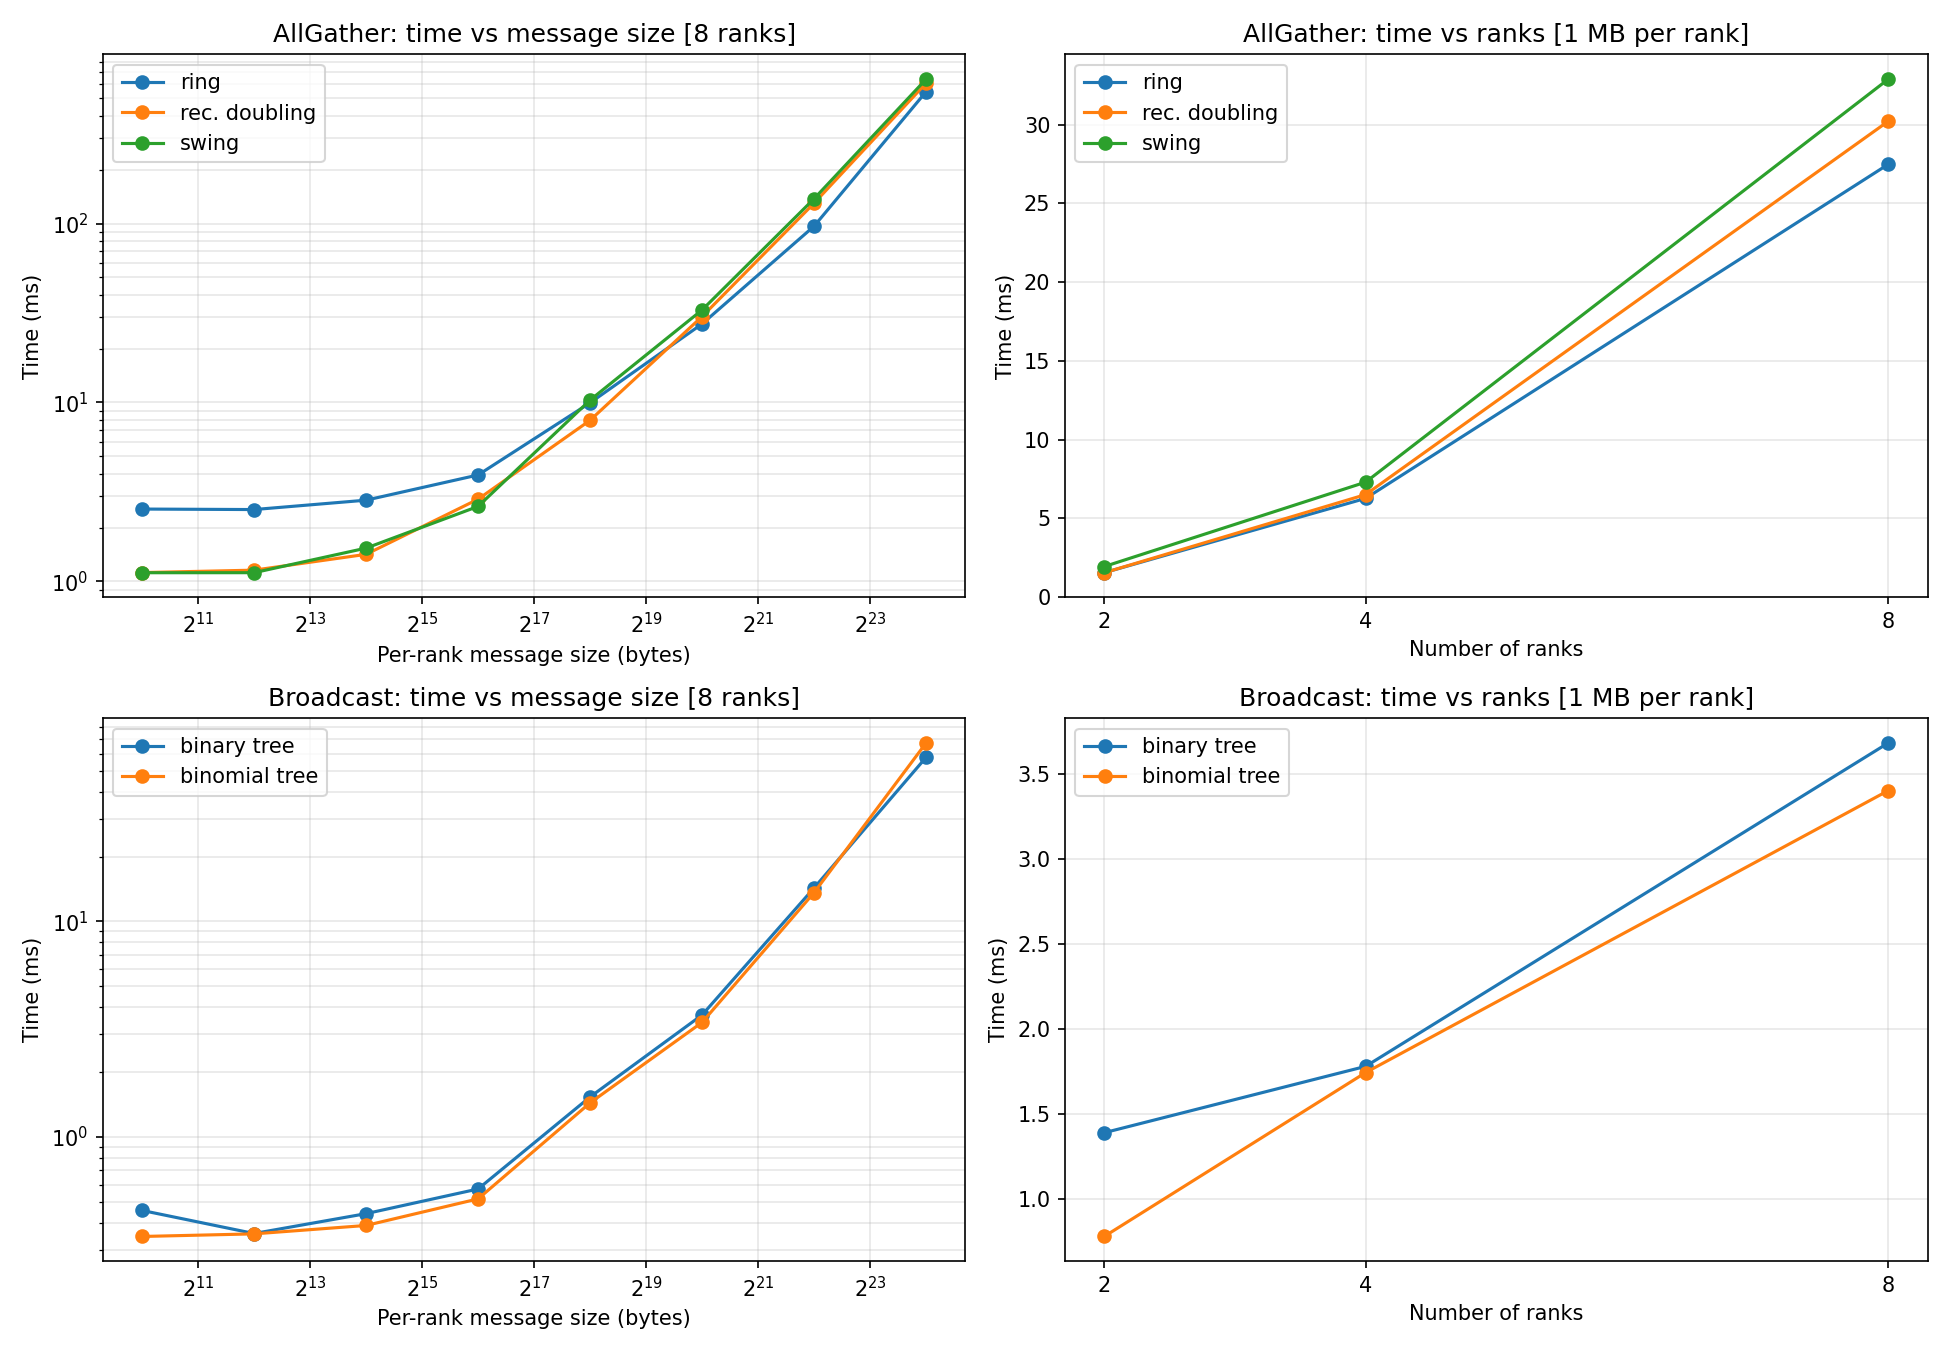
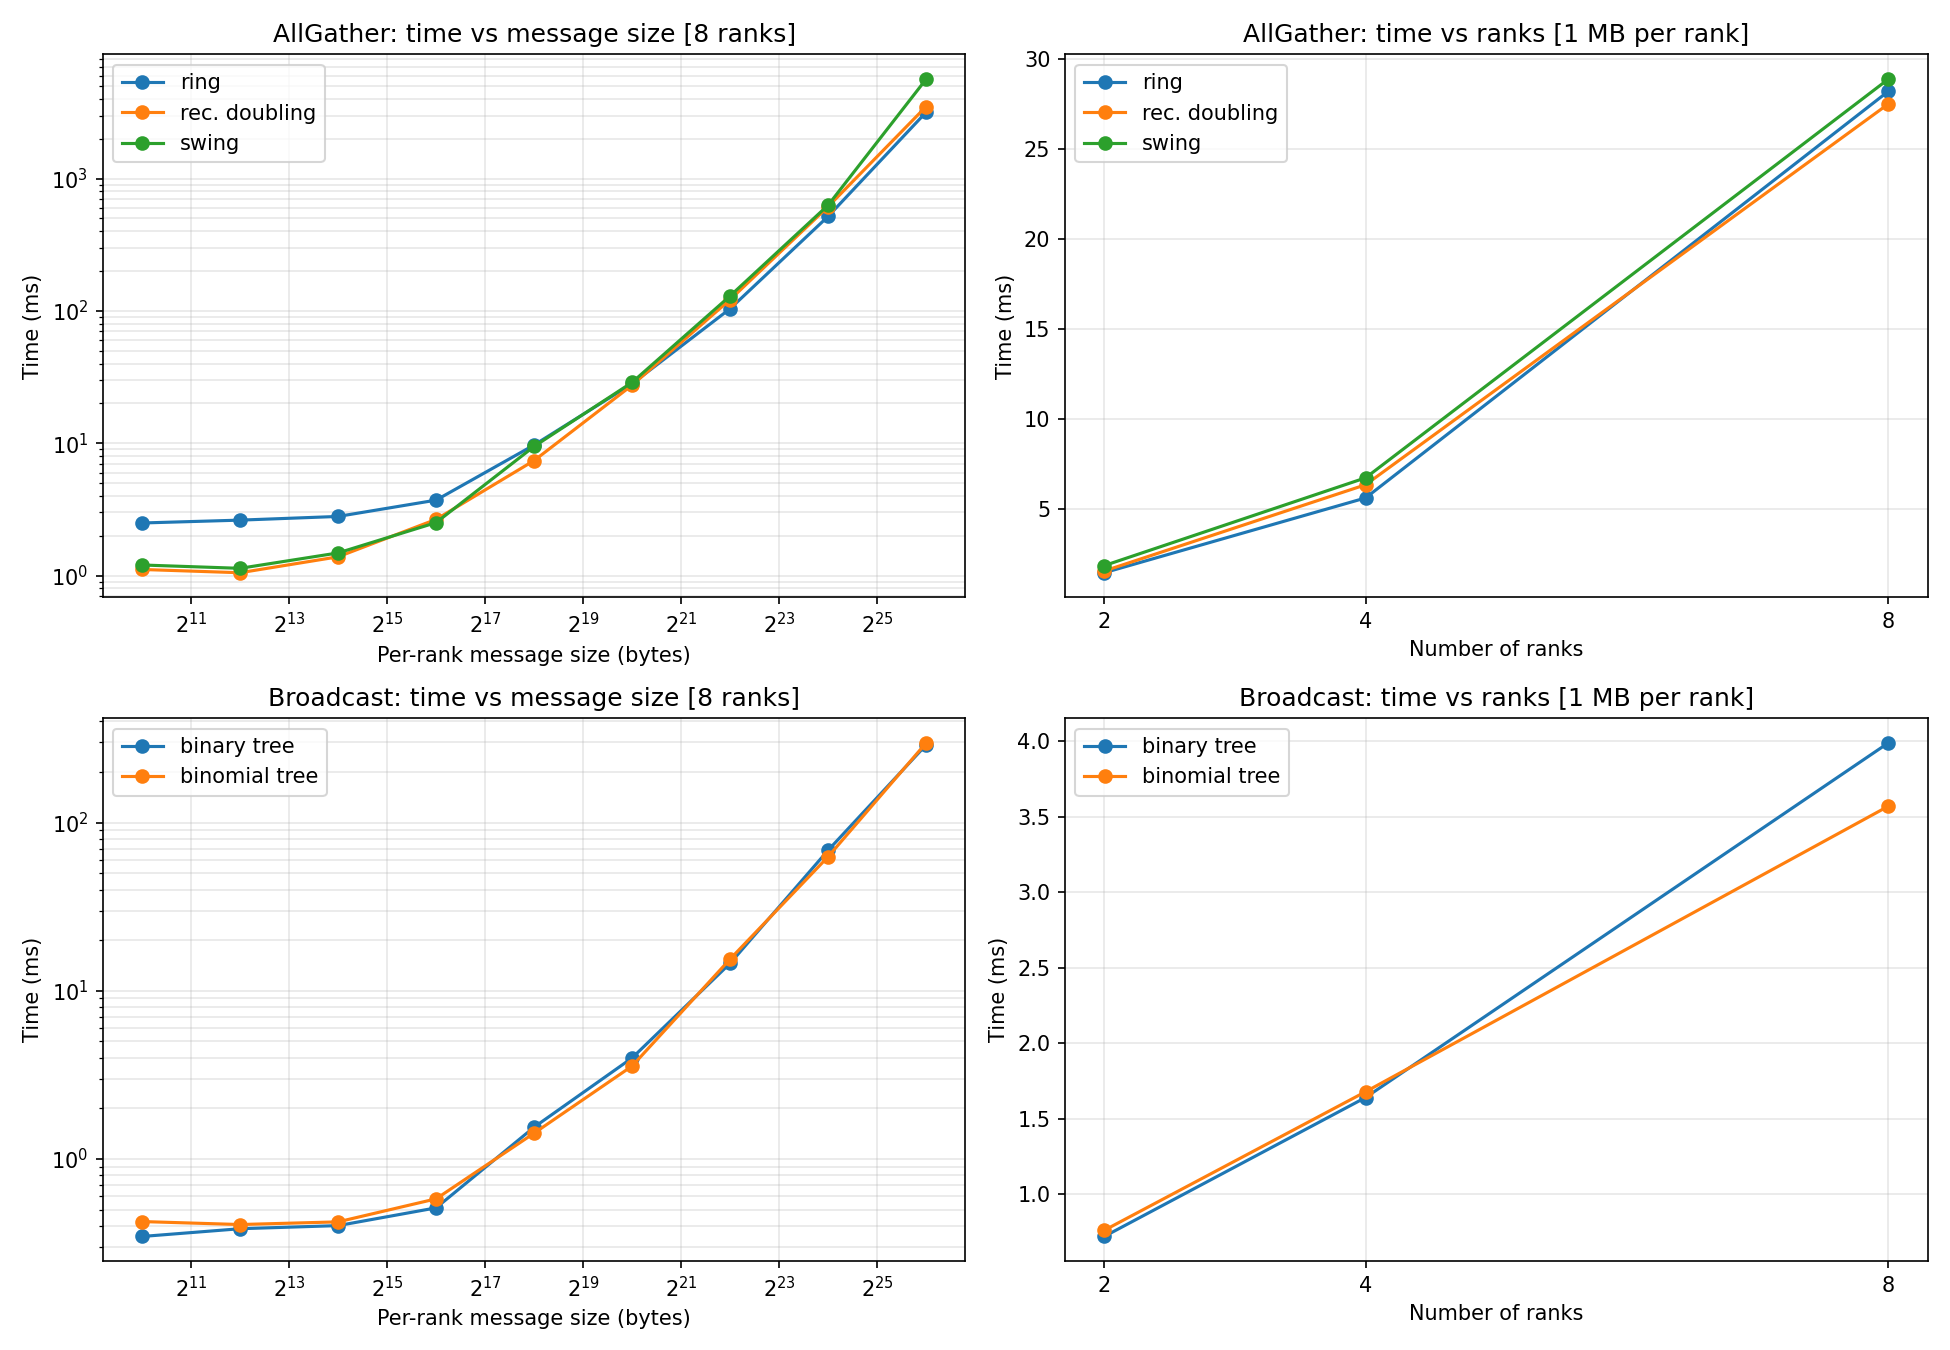
a4, a5 done

diff --git a/a4/solver.py b/a4/solver.py
@@ -5,26 +5,25 @@ Problem
 -------
 n=8 nodes, d=4 directed links in/out per node, each of capacity 1.
 Given a traffic matrix T in the hose model (T_ii=0, row/col sums ≤ d=4),
-find the d-regular directed topology and flow routing that maximize λ,
-where we route λ·T_ij flow for every commodity (i,j).
+find the d-regular directed topology and flow routing that maximize θ,
+where we route θ·T_ij flow for every commodity (i,j).
 
 MILP formulation
 ----------------
 Variables:
   x[i,j]       ∈ {0,1}  — edge i→j exists
   f[i,j,s,t]   ≥ 0      — flow of commodity (s,t) on edge (i,j)
-  λ             ≥ 0      — concurrent-flow scaling factor
+  θ             ≥ 0      — concurrent-flow scaling factor
 
-Maximize λ subject to:
+Maximize θ subject to:
   Σ_j x[i,j] = d          ∀i          (out-degree)
   Σ_i x[i,j] = d          ∀j          (in-degree)
   Σ_v f[u,v,s,t] - Σ_v f[v,u,s,t]
-    = λ·T[s,t]  if u=s
-    = -λ·T[s,t] if u=t
+    = θ·T[s,t]  if u=s
+    = -θ·T[s,t] if u=t
     = 0         otherwise              (flow conservation per commodity)
   Σ_{s,t} f[i,j,s,t] ≤ x[i,j]        ∀(i,j)  (aggregate capacity)
   f[i,j,s,t] ≤ x[i,j]                 ∀(i,j),(s,t)  (per-commodity tightening)
-  0 ≤ λ ≤ 1                           (hose model implies λ≤1)
 """
 
 import numpy as np
@@ -36,7 +35,7 @@ from gurobipy import GRB
 # Core solver
 # ---------------------------------------------------------------------------
 
-def solve(T, n=8, d=4, time_limit=600, verbose=True):
+def solve(T, n=8, d=4, time_limit=1000, verbose=True):
     """
     Solve the MILP for a given traffic matrix T.
 
@@ -50,8 +49,8 @@ def solve(T, n=8, d=4, time_limit=600, verbose=True):
     Returns
     -------
     dict with keys:
-      'lambda'   : best λ found (float)
-      'obj_bound': upper bound on optimal λ
+      'theta'    : best θ found (float)
+      'obj_bound': upper bound on optimal θ
       'gap'      : MIP gap (|bound - obj| / |obj|)
       'topology' : list of (i,j) edges in the chosen topology
       'status'   : Gurobi status code
@@ -76,12 +75,12 @@ def solve(T, n=8, d=4, time_limit=600, verbose=True):
     # ------------------------------------------------------------------
     x   = m.addVars(edges, vtype=GRB.BINARY, name="x")
     f   = m.addVars(edges, commodities, lb=0.0, name="f")
-    lam = m.addVar(lb=0.0, ub=1.0, name="lambda")
+    theta = m.addVar(lb=0.0, ub=1.0, name="theta")
 
     # ------------------------------------------------------------------
     # Objective
     # ------------------------------------------------------------------
-    m.setObjective(lam, GRB.MAXIMIZE)
+    m.setObjective(theta, GRB.MAXIMIZE)
 
     # ------------------------------------------------------------------
     # Topology: exactly d out-edges and d in-edges per node
@@ -101,9 +100,9 @@ def solve(T, n=8, d=4, time_limit=600, verbose=True):
             out_f = gp.quicksum(f[u, v, s, t] for v in nodes if v != u)
             in_f  = gp.quicksum(f[v, u, s, t] for v in nodes if v != u)
             if u == s:
-                rhs = lam * demand       # net outflow = λ·T[s,t]
+                rhs = theta * demand       # net outflow = θ·T[s,t]
             elif u == t:
-                rhs = -lam * demand      # net inflow  = λ·T[s,t]
+                rhs = -theta * demand      # net inflow  = θ·T[s,t]
             else:
                 rhs = 0.0
             m.addConstr(out_f - in_f == rhs, name=f"fc_{s}_{t}_{u}")
@@ -128,12 +127,12 @@ def solve(T, n=8, d=4, time_limit=600, verbose=True):
     m.optimize()
 
     if m.SolCount == 0:
-        return {"lambda": None, "obj_bound": m.ObjBound,
+        return {"theta": None, "obj_bound": m.ObjBound,
                 "gap": None, "topology": None, "status": m.status}
 
     topology = sorted((i, j) for i, j in edges if x[i, j].X > 0.5)
     return {
-        "lambda":    lam.X,
+        "theta":    theta.X,
         "obj_bound": m.ObjBound,
         "gap":       m.MIPGap,
         "topology":  topology,
@@ -189,11 +188,11 @@ def print_result(name, T, res):
     print(f"\n{'='*60}")
     print(f"Traffic matrix: {name}")
     print(f"  Row sums: {T.sum(axis=1).round(3)}")
-    if res["lambda"] is None:
+    if res["theta"] is None:
         print("  No feasible solution found.")
         return
-    print(f"  λ (best found) : {res['lambda']:.6f}")
-    print(f"  λ (upper bound): {res['obj_bound']:.6f}")
+    print(f"  θ (best found) : {res['theta']:.6f}")
+    print(f"  θ (upper bound): {res['obj_bound']:.6f}")
     print(f"  MIP gap        : {res['gap']:.4%}" if res["gap"] is not None else "")
     print(f"  Topology edges ({len(res['topology'])}):")
     adj = np.zeros((8, 8), dtype=int)
@@ -211,8 +210,8 @@ if __name__ == "__main__":
 
     test_cases = [
         ("Uniform (T[i,j]=4/7)",   uniform_hose(n, d)),
-        ("Ring permutation",        ring_permutation(n, d)),
-        ("Random from T_hose",      random_hose(n, d)),
+        # ("Ring permutation",        ring_permutation(n, d)),
+        # ("Random from T_hose",      random_hose(n, d)),
     ]
 
     results = {}

diff --git a/a5/a5.py b/a5/a5.py
@@ -37,6 +37,12 @@ import torch.distributed as dist
 import torch.multiprocessing as mp
 
 
+def _wait(*reqs: "dist.Work | None") -> None:
+    for r in reqs:
+        if r is not None:
+            r.wait()
+
+
 # ── AllGather ──────────────────────────────────────────────────────────────────
 
 def allgather_ring(tensor, rank, world_size):
@@ -57,7 +63,7 @@ def allgather_ring(tensor, rank, world_size):
 
         req_s = dist.isend(chunks[send_idx].contiguous(), dst=send_to)
         req_r = dist.irecv(recv_buf, src=recv_from)
-        req_s.wait(); req_r.wait()
+        _wait(req_s, req_r)
         chunks[recv_idx] = recv_buf
 
     return torch.cat(chunks)
@@ -76,7 +82,7 @@ def allgather_recursive_doubling(tensor, rank, world_size):
         recv = torch.empty_like(buf)
         req_s = dist.isend(buf.contiguous(), dst=partner)
         req_r = dist.irecv(recv, src=partner)
-        req_s.wait(); req_r.wait()
+        _wait(req_s, req_r)
         # lower rank holds the lower block, so its data comes first
         buf = torch.cat([buf, recv] if rank < partner else [recv, buf])
     return buf
@@ -129,7 +135,7 @@ def allgather_swing(tensor, rank, world_size):
 
         req_s = dist.isend(send_flat, dst=send_to)
         req_r = dist.irecv(recv_flat, src=recv_from)
-        req_s.wait(); req_r.wait()
+        _wait(req_s, req_r)
 
         recv_chunks = recv_flat.view(len(peer_idx), tensor.numel())
         for idx, chunk_idx in enumerate(peer_idx):
@@ -144,8 +150,8 @@ def broadcast_binary_tree(tensor, rank, world_size, root=0):
     """
     Binary Tree Broadcast.
     Tree structure: parent of r = (r-1)//2, children = 2r+1 and 2r+2.
-    Each node blocks on recv from its parent, then isends to its children in
-    parallel. No explicit barrier needed — the recv naturally gates forwarding.
+    Each node sends to its two children sequentially (one after the other),
+    matching the book cost of 2·log(n)·(α + mβ) vs binomial's log(n)·(α + mβ).
     """
     buf = tensor.clone()
     parent   = (rank - 1) // 2 if rank > 0 else -1
@@ -154,9 +160,8 @@ def broadcast_binary_tree(tensor, rank, world_size, root=0):
     if rank != root:
         dist.recv(buf, src=parent)
 
-    reqs = [dist.isend(buf.contiguous(), dst=c) for c in children]
-    for req in reqs:
-        req.wait()
+    for c in children:
+        _wait(dist.isend(buf.contiguous(), dst=c))
     return buf
 
 
@@ -175,7 +180,7 @@ def broadcast_binomial_tree(tensor, rank, world_size, root=0):
         if rank < step_size:
             dest = rank + step_size
             if dest < world_size:
-                dist.isend(buf.contiguous(), dst=dest).wait()
+                _wait(dist.isend(buf.contiguous(), dst=dest))
         elif rank < 2 * step_size:
             dist.recv(buf, src=rank - step_size)
     return buf
@@ -196,7 +201,7 @@ BROADCAST_ALGOS = {
 N_WARMUP = 3
 N_TRIALS = 7
 
-MSG_SIZES   = [1 << k for k in range(10, 25, 2)]  # 1 KB → 16 MB (log2 steps)
+MSG_SIZES   = [1 << k for k in range(10, 27, 2)]  # 1 KB → 64 MB (log2 steps)
 FIXED_SIZE  = 1 << 20                              # 1 MB (included in MSG_SIZES)
 WORLD_SIZES = [2, 4, 8]
 
@@ -254,7 +259,7 @@ def run_benchmarks(world_size, algo_names, is_allgather, msg_sizes):
     """Spawn world_size processes, run all (algo × msg_size) combos, return {(name,size): seconds}."""
     port = _find_free_port()
     q = mp.Queue()
-    mp.spawn(
+    mp.spawn(  # type: ignore[attr-defined]
         _worker,
         args=(world_size, port, algo_names, is_allgather, msg_sizes, q),
         nprocs=world_size,
